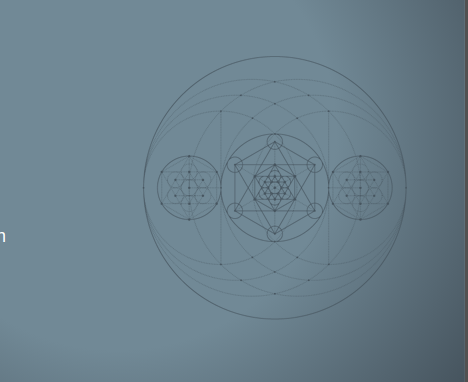
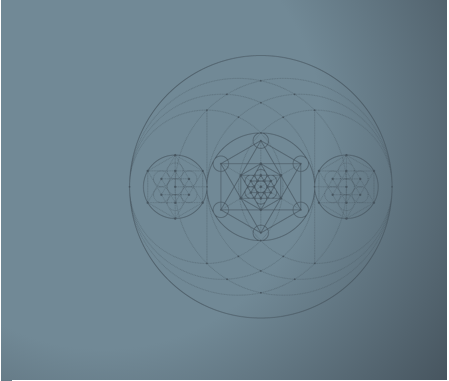
prev, next, visited, background

diff --git a/math.html b/math.html
@@ -66,36 +66,37 @@
                 <img src="img/gallery/grey1.jpg" alt=""/>
                 <img src="img/gallery/grey2.jpg" alt=""/>
         </div>
-    <div class="text-container">
-                <p>
-                    <b>Числата</b> играят основна роля в науката, философията и изкуството. Те ни помагат да измерваме,
-                    анализираме
-                    и
-                    разбираме света около нас. Едно от най-интересните математически съотношения е <b>златното
-                    сечение</b>,
-                    което се изразява чрез числото <b>1.6180339887</b> и е свързано с хармонията и пропорциите в
-                    природата,
-                    изкуството и
-                    архитектурата. <br>
-                    Това съотношение може да бъде намерено в структурата на цветята, човешкото тяло и дори в
-                    галактиките.
-                    <br>
-                    <b>Последователността на Фибоначи</b>, която се изгражда по правилото, че всяко число е сумата от
-                    предходните
-                    две, също има връзка със златното сечение. <br>
-                    При нарастване на числата в редицата, съотношението между съседни числа се приближава до него.
-                    Тази редица започва с <b>0, 1, 1, 2, 3, 5, 8, 13, 21...</b> и се среща навсякъде в природата – в
-                    разположението
-                    на
-                    листата по стеблото, спиралите на мидите и формата на ураганите. <br>
-                    От древността до днес хората използват числата не само за изчисления, но и за <b>символични
-                    значения</b>,
-                    вдъхновение и открития. Те формират основата на математиката и се използват в различни науки,
-                    инженерство,
-                    изкуство и дори в музиката.
-                </p>
-            </div>
-        </div>
+
+    </div>
+    <div class="main-container">
+        <p>
+            <b>Числата</b> играят основна роля в науката, философията и изкуството. Те ни помагат да измерваме,
+            анализираме
+            и
+            разбираме света около нас. Едно от най-интересните математически съотношения е <b>златното
+            сечение</b>,
+            което се изразява чрез числото <b>1.6180339887</b> и е свързано с хармонията и пропорциите в
+            природата,
+            изкуството и
+            архитектурата. <br>
+            Това съотношение може да бъде намерено в структурата на цветята, човешкото тяло и дори в
+            галактиките.
+            <br>
+            <b>Последователността на Фибоначи</b>, която се изгражда по правилото, че всяко число е сумата от
+            предходните
+            две, също има връзка със златното сечение. <br>
+            При нарастване на числата в редицата, съотношението между съседни числа се приближава до него.
+            Тази редица започва с <b>0, 1, 1, 2, 3, 5, 8, 13, 21...</b> и се среща навсякъде в природата – в
+            разположението
+            на
+            листата по стеблото, спиралите на мидите и формата на ураганите. <br>
+            От древността до днес хората използват числата не само за изчисления, но и за <b>символични
+            значения</b>,
+            вдъхновение и открития. Те формират основата на математиката и се използват в различни науки,
+            инженерство,
+            изкуство и дори в музиката.
+        </p>
+    </div>
 </main>
 <footer>
     <div class="footer-content">

diff --git a/css/css.css b/css/css.css
@@ -3,7 +3,8 @@
 body {
     background-image: url("../img/background.png");
     background-size: cover;
-    background-position: center;
+    /*background-position: center;*/
+    background-position:  center left 10%;
     background-attachment: fixed;
     background-color: #2c3e50; /* резервен цвят, ако изображението не се зареди */
     font-family: Arial, sans-serif;
@@ -150,7 +151,7 @@ nav li a { /* главно меню */
 nav li a:hover:not(.active) {
     background-color: #111; /* активен dd - черно */
     transform: scale(1.2);
-    transition: all 0.2s ease-in-out;
+    transition: all 0.6s ease-in-out;
 }
 
 li a:hover, .dropdown:hover .dropbtn:hover {
@@ -213,25 +214,44 @@ li.dropdown { /* главно меню - dropdown*/
     z-index: 10;
     display: flex;
     align-items: center; /* центрира логото и текста вертикално */
+    justify-content: center; /* или space-between */
     gap: 1vw; /* разстояние между логото и текста */
     max-height: 80vh;
+    box-sizing: border-box;
+    width: 100%;
+    max-width: 100%;
+}
+
+.header-logo-container {
+    flex-wrap: wrap;
 }
 
 .-header-logo-container a {
     text-decoration: none; /* Премахва подчертаването */
 }
 
-.-header-logo-container a:visited {
-    color: inherit; /* лилавия цвят на посетените линкове */
+.header-logo-container a:visited {
+    color: inherit; /* спира лилавото */
+    outline: none;
 }
+
+/*.header-logo-container h1:visited {*/
+/*    color: transparent;*/
+/*    text-decoration: none;*/
+/*    outline: none;*/
+/*}*/
 
 .logo {
     width: auto;
     /*height: 0.8em; !* като H1 *!*/
     height: 1.2em;
     border-radius: 5px;
-
+    object-fit: contain;
+    flex-shrink: 0; /* не позволява свиване */
+    border: none;
+    outline: none;
 }
+
 
 .header-sticky {
     /*height: 60px;*/
@@ -346,6 +366,7 @@ li.dropdown { /* главно меню - dropdown*/
     box-shadow: 0 0 10px rgba(0, 0, 0, 0.1);
     overflow: hidden;
 }
+
 .main-container{
     max-width: 90%;
     overflow-x: auto; /* скролера за скритата част */
@@ -359,7 +380,7 @@ li.dropdown { /* главно меню - dropdown*/
 .image-2-container {
     display: flex; /* подрежда снимките в редица */
     justify-content: space-around; /* Раздалечава ги равномерно */
-    margin-bottom: 20px;
+    margin: 20px;
     border-radius: 10px;
 }
 
@@ -627,4 +648,10 @@ footer {
     clear: both;
     display: table;
 }
+
+
+/* =================== debug helper =======================*/
+/** {*/
+/*    outline: 1px solid red !important;*/
+/*}*/
 

diff --git a/daily.html b/daily.html
@@ -16,7 +16,7 @@
 <header class=header-sticky>
 
     <div class="height-60">
-        <div class="header-logo-container">
+        <div class="-header-logo-container">
             <h1>
                 <a href="index.html">
                     <img alt="©" class="logo" src="img/logo.jpg"/>
@@ -31,9 +31,7 @@
             <button class="hamburger" onclick="toggleMenu()">☰</button>
             <ul id="navMenu">
                 <li>
-                    <a href="index.html">
-                        Начало
-                    </a>
+                    <a href="index.html">Начало</a>
                 </li>
 
                 <li><a href="symbolism.html">Символика</a></li>
@@ -54,14 +52,15 @@
                     <div class="dropdown-content">
                         <a href="contact.html">Контакти</a>
                     </div>
+                <li><a href="symbolism.html">             </a></li>
             </ul>
         </nav>
-
     </div>
 </header>
 
 <main class="main-begin">
     <h2>Числата в нашето ежедневие</h2>
+
     <div class="main-container-no-x">
         <div class="slider-container">
             <div class="slide-img">

diff --git a/css/mobile.css b/css/mobile.css
@@ -49,7 +49,8 @@
     }
 
     /*mobile */
-    .main-container {
+    .main-container, .main-container-no-x{
+        margin: 20px auto;
         width: 100%;
         padding: 20px;
         box-shadow: 0 0 10px rgba(0, 0, 0, 0.1);
@@ -135,8 +136,15 @@
 
     .next {
         right: 12px;
-        /*top: 50%;*/
         transform: translateX(20%);
+        -webkit-tap-highlight-color: transparent;    /*рязкото примигване при клик премахва*/
+    }
+
+    .next:focus,
+    .next:active {
+        outline: none;
+        background-color: transparent !important;/*потъмняването след клик премахва*/
+        box-shadow: none;
     }
 
     /* mobile */

diff --git a/index.html b/index.html
@@ -16,7 +16,7 @@
 <header class=header-sticky>
 
     <div class="height-60">
-        <div class="-header-logo-container">
+        <div class="header-logo-container">
             <h1>
                 <a href="index.html">
                     <img alt="©" class="logo" src="img/logo.jpg"/>

diff --git a/symbolism.html b/symbolism.html
@@ -137,7 +137,7 @@
 
     <h2>Числата в различни бройни системи</h2>
 </div>
-<br>
+
 <div class="main-container ">
     <table>
       <tr>
